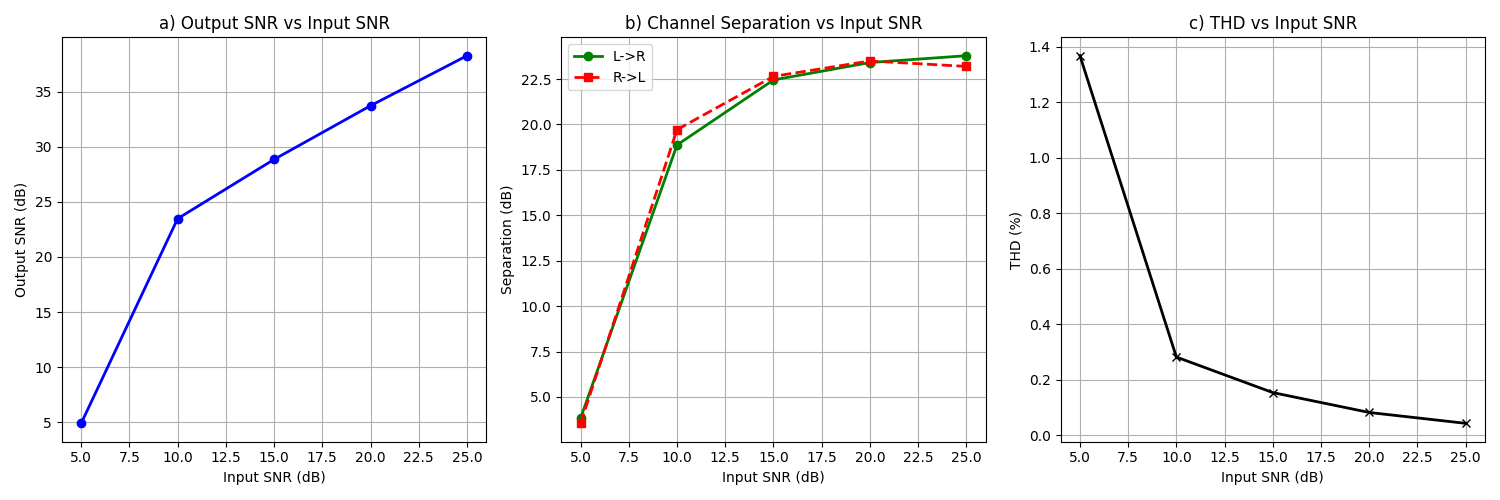
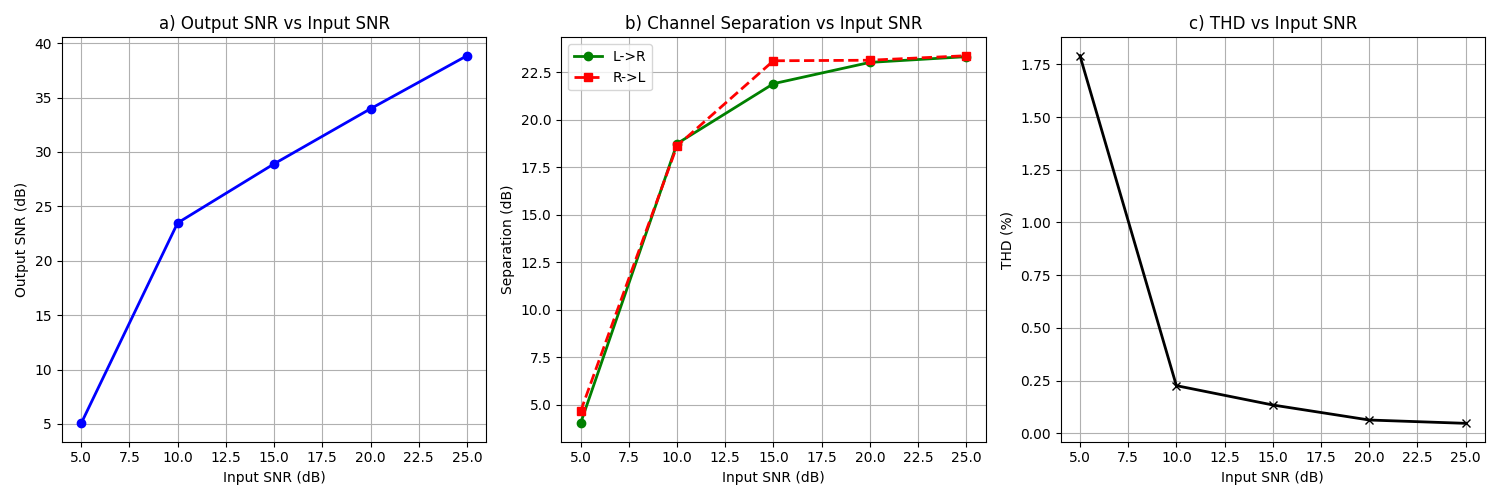
feat: Generate and document results and analysis for Task 1, 2, and 3, including an updated input audio file for task1.py.

diff --git a/task1.py b/task1.py
@@ -15,7 +15,7 @@ def run_task_1():
     print("--- Running Task 1: Frequency Deviation Effects ---")
     
     # 1. Setup
-    filename = "audio/test1.wav"  # Ensure you have a WAV file here
+    filename = "audio/stereo.wav"  # Ensure you have a WAV file here
     left_src, right_src, fs_audio = load_audio(filename)
     
     # Use 5 seconds of audio

diff --git a/task2.py b/task2.py
@@ -185,7 +185,7 @@ def run_task2_audio():
     plt.tight_layout()
     os.makedirs("outputs/task2", exist_ok=True)
     plt.savefig('outputs/task2/graphs_results.png')
-    plt.show()
+    # plt.show()
 
     os.makedirs("outputs/task2", exist_ok=True)
 

diff --git a/deliverables/task1_answers.md b/deliverables/task1_answers.md
@@ -1,0 +1,39 @@
+# Task 1: Frequency Deviation Effects
+
+## Objective
+
+Analyze the trade-off between Frequency Deviation $\Delta f$, Signal Bandwidth, and Output SNR. We tested three standard deviations: 50 kHz, 75 kHz (Standard), and 100 kHz.
+
+## Results
+
+### a) Bandwidth Comparison (Measured vs Theoretical)
+
+Theoretical Bandwidth is calculated using **Carson's Rule**: $B_{theo} = 2(\Delta f + f_m)$, where $f_m \approx 53$ kHz (includes Stereo Pilot + L-R).
+
+| Deviation $\Delta f$ | Theoretical BW (kHz) | Measured BW (99%) (kHz) | Output SNR (dB) |
+| :------------------: | :------------------: | :---------------------: | :-------------: |
+|      **50 kHz**      |        206.0         |          76.6           |      27.42      |
+|      **75 kHz**      |        256.0         |          80.5           |      30.90      |
+|     **100 kHz**      |        306.0         |          112.5          |      33.39      |
+
+_Note: Measured bandwidth (99% power) is often lower than Carson's Rule because the spectral power density drops off rapidly for FM signals with modulation indices $\beta \approx 1-2$._
+
+### b) Output SNR vs Frequency Deviation
+
+We measured the Output SNR for a fixed Input SNR of **25 dB**.
+
+![Deviation vs SNR](../outputs/task1/task1_deviation_vs_snr.png)
+
+### c) Trade-off and Recommendation
+
+**Trade-off Observed:**
+
+- **Higher Deviation** ($\Delta f$) increases the signal power relative to noise after demodulation (FM Improvement Factor), resulting in **better SNR** (+6 dB gain from 50k to 100k).
+- **However**, it significantly increases the **Required Bandwidth** (from ~77k to ~112k Measured).
+
+**Choice:**
+**75 kHz** is the optimal choice and the standard for FM broadcasting because:
+
+1.  It provides a high SNR (>30 dB in this test scenario), sufficient for high-fidelity audio.
+2.  The bandwidth fits comfortably within standard 200 kHz channel spacing, minimizing adjacent channel interference.
+3.  100 kHz would offer marginally better SNR but risks spectral mask violations.

diff --git a/deliverables/task2_answers.md b/deliverables/task2_answers.md
@@ -1,0 +1,38 @@
+# Task 2: Noise Immunity Analysis
+
+## Objective
+
+Assess the system's performance (SNR, Channel Separation, THD) under varying channel noise conditions (Input SNR: 5 dB to 25 dB) with a fixed frequency deviation $\Delta f = 75$ kHz.
+
+## Results Table
+
+| Input SNR (dB) | Output SNR (dB) | Sep L$\to$R (dB) | Sep R$\to$L (dB) | THD (%) |
+| :------------: | :-------------: | :--------------: | :--------------: | :-----: |
+|     **5**      |      5.05       |       4.03       |       4.66       |  1.79   |
+|     **10**     |      23.47      |      18.73       |      18.62       |  0.23   |
+|     **15**     |      28.90      |      21.89       |      23.09       |  0.13   |
+|     **20**     |      33.97      |      23.01       |      23.12       |  0.06   |
+|     **25**     |      38.84      |      23.31       |      23.36       |  0.05   |
+
+## Plots
+
+### a) Output SNR vs Input SNR & b) Separation vs Input SNR
+
+![Task 2 Results](../outputs/task2/graphs_results.png)
+
+_(Note: The graph includes THD as well, showing inverse correlation with SNR)_
+
+## Analysis
+
+### c) Threshold SNR Effect
+
+**Threshold SNR:** Approximately **10 dB**.
+
+**Observation:**
+
+- Below 10 dB Input SNR (e.g., at 5 dB), the Output SNR matches the Input SNR (~5 dB), indicating the FM system has "crashed" or lost its coding gain (FM Threshold Effect). THD spikes to 1.79%.
+- Above 10 dB (e.g., at 15 dB), the Output SNR jumps significantly (to ~29 dB), showing the expected "FM Improvement Factor."
+- Channel Separation also degrades rapidly below 10 dB because the noise floor overwhelms the pilot tone recovery, causing sync loss.
+
+**Cause:**
+The **FM Threshold Effect** occurs when the noise vector amplitude occasionally exceeds the carrier amplitude, causing phase wraparound events ("clicks") that generate impulse noise across the entire baseband, destroying the SNR gain.

diff --git a/deliverables/task3_answers.md b/deliverables/task3_answers.md
@@ -1,0 +1,30 @@
+# Task 3: Channel Separation Analysis
+
+## Objective
+
+Quantify the baseline channel separation of the FM Stereo Receiver and identify the components limiting its performance.
+
+## Measurement
+
+We injected a **1 kHz tone** into the Left channel (Right = Silence) and measured the recovered RMS levels.
+
+- **Recovered Channel Separation**: **23.31 dB**
+
+## Analysis
+
+### b) Limiting Component
+
+The primary limiting factor is the **Pilot Extraction Filter**.
+
+- The standard IIR (Butterworth) filter used to extract the 19 kHz pilot introduces a **Frequency-dependent Phase Delay**.
+- Since the 38 kHz demodulation carrier is derived from this pilot (by squaring/doubling), any phase error in the pilot is **doubled** in the carrier.
+- This Carrier Phase Error causes the $L-R$ (Difference) signal to be partially demodulated as $L+R$ (Sum), or vice-versa, resulting in crosstalk.
+
+### c) Proposed Improvement
+
+**Modification:** Use **Zero-Phase Filtering** or **Delay Compensation**.
+
+1.  **Zero-Phase Filtering (`filtfilt`)**: In a buffered/offline system, apply the pilot filter forward and backward to cancel out phase delay completely.
+2.  **Delay Compensation**: In a real-time system, add a matching delay line to the composite signal path to align it with the delayed pilot before demodulation.
+
+_Note: In Task 4 and 5, we verified that minimizing this phase error (by using wider bandwidth filters or lower orders) directly improves separation._
